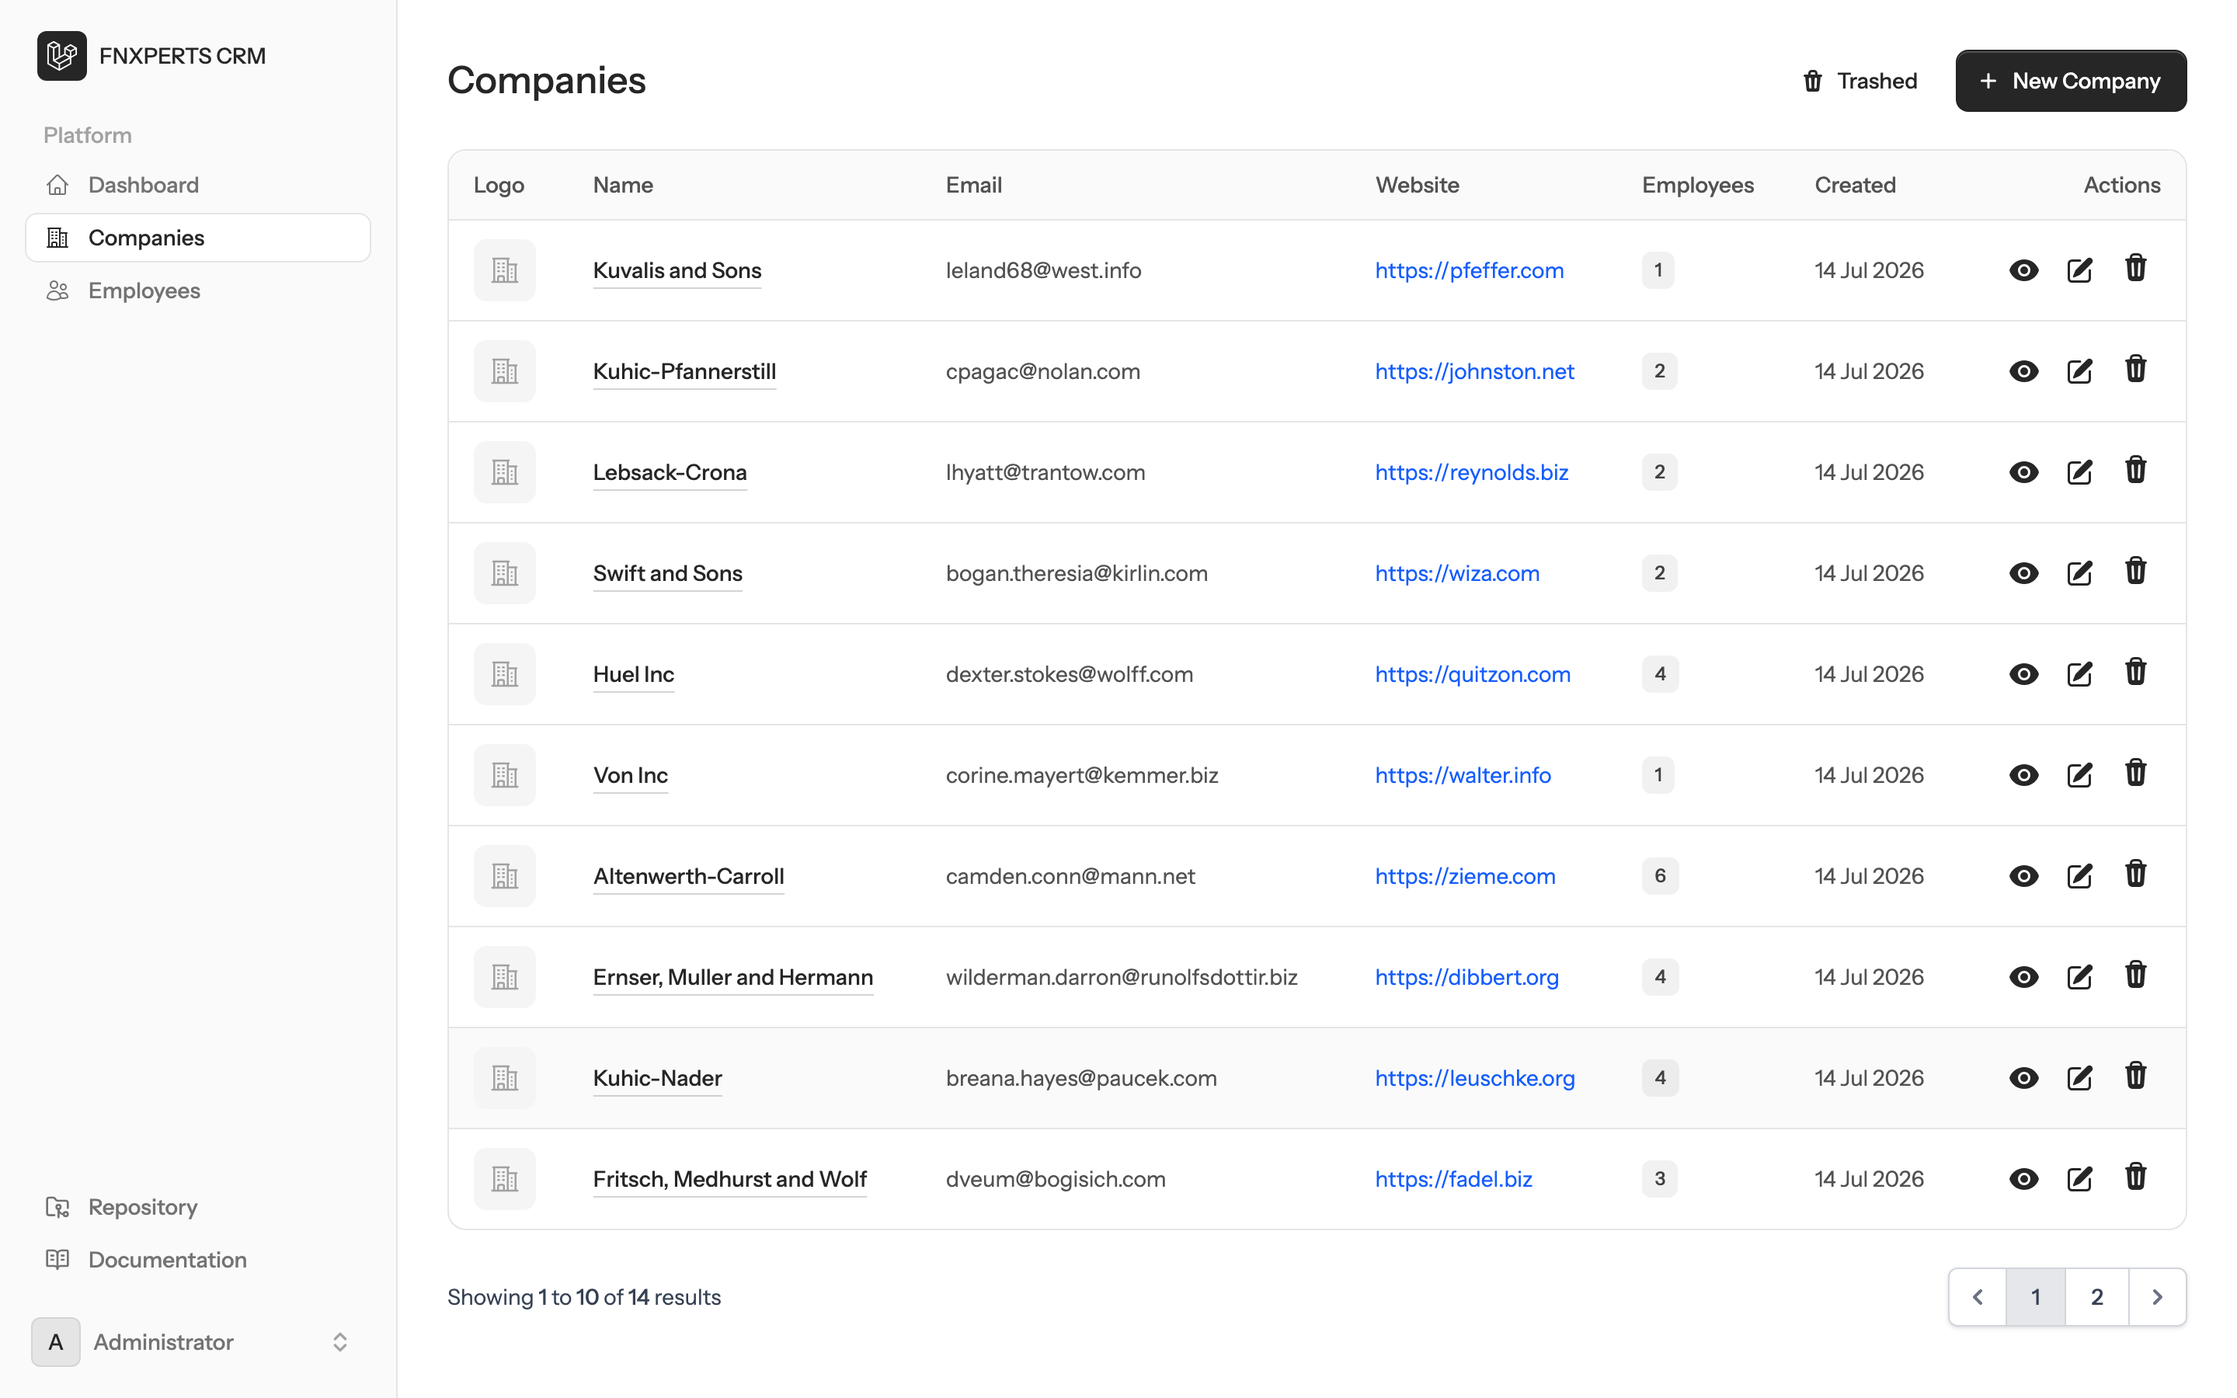
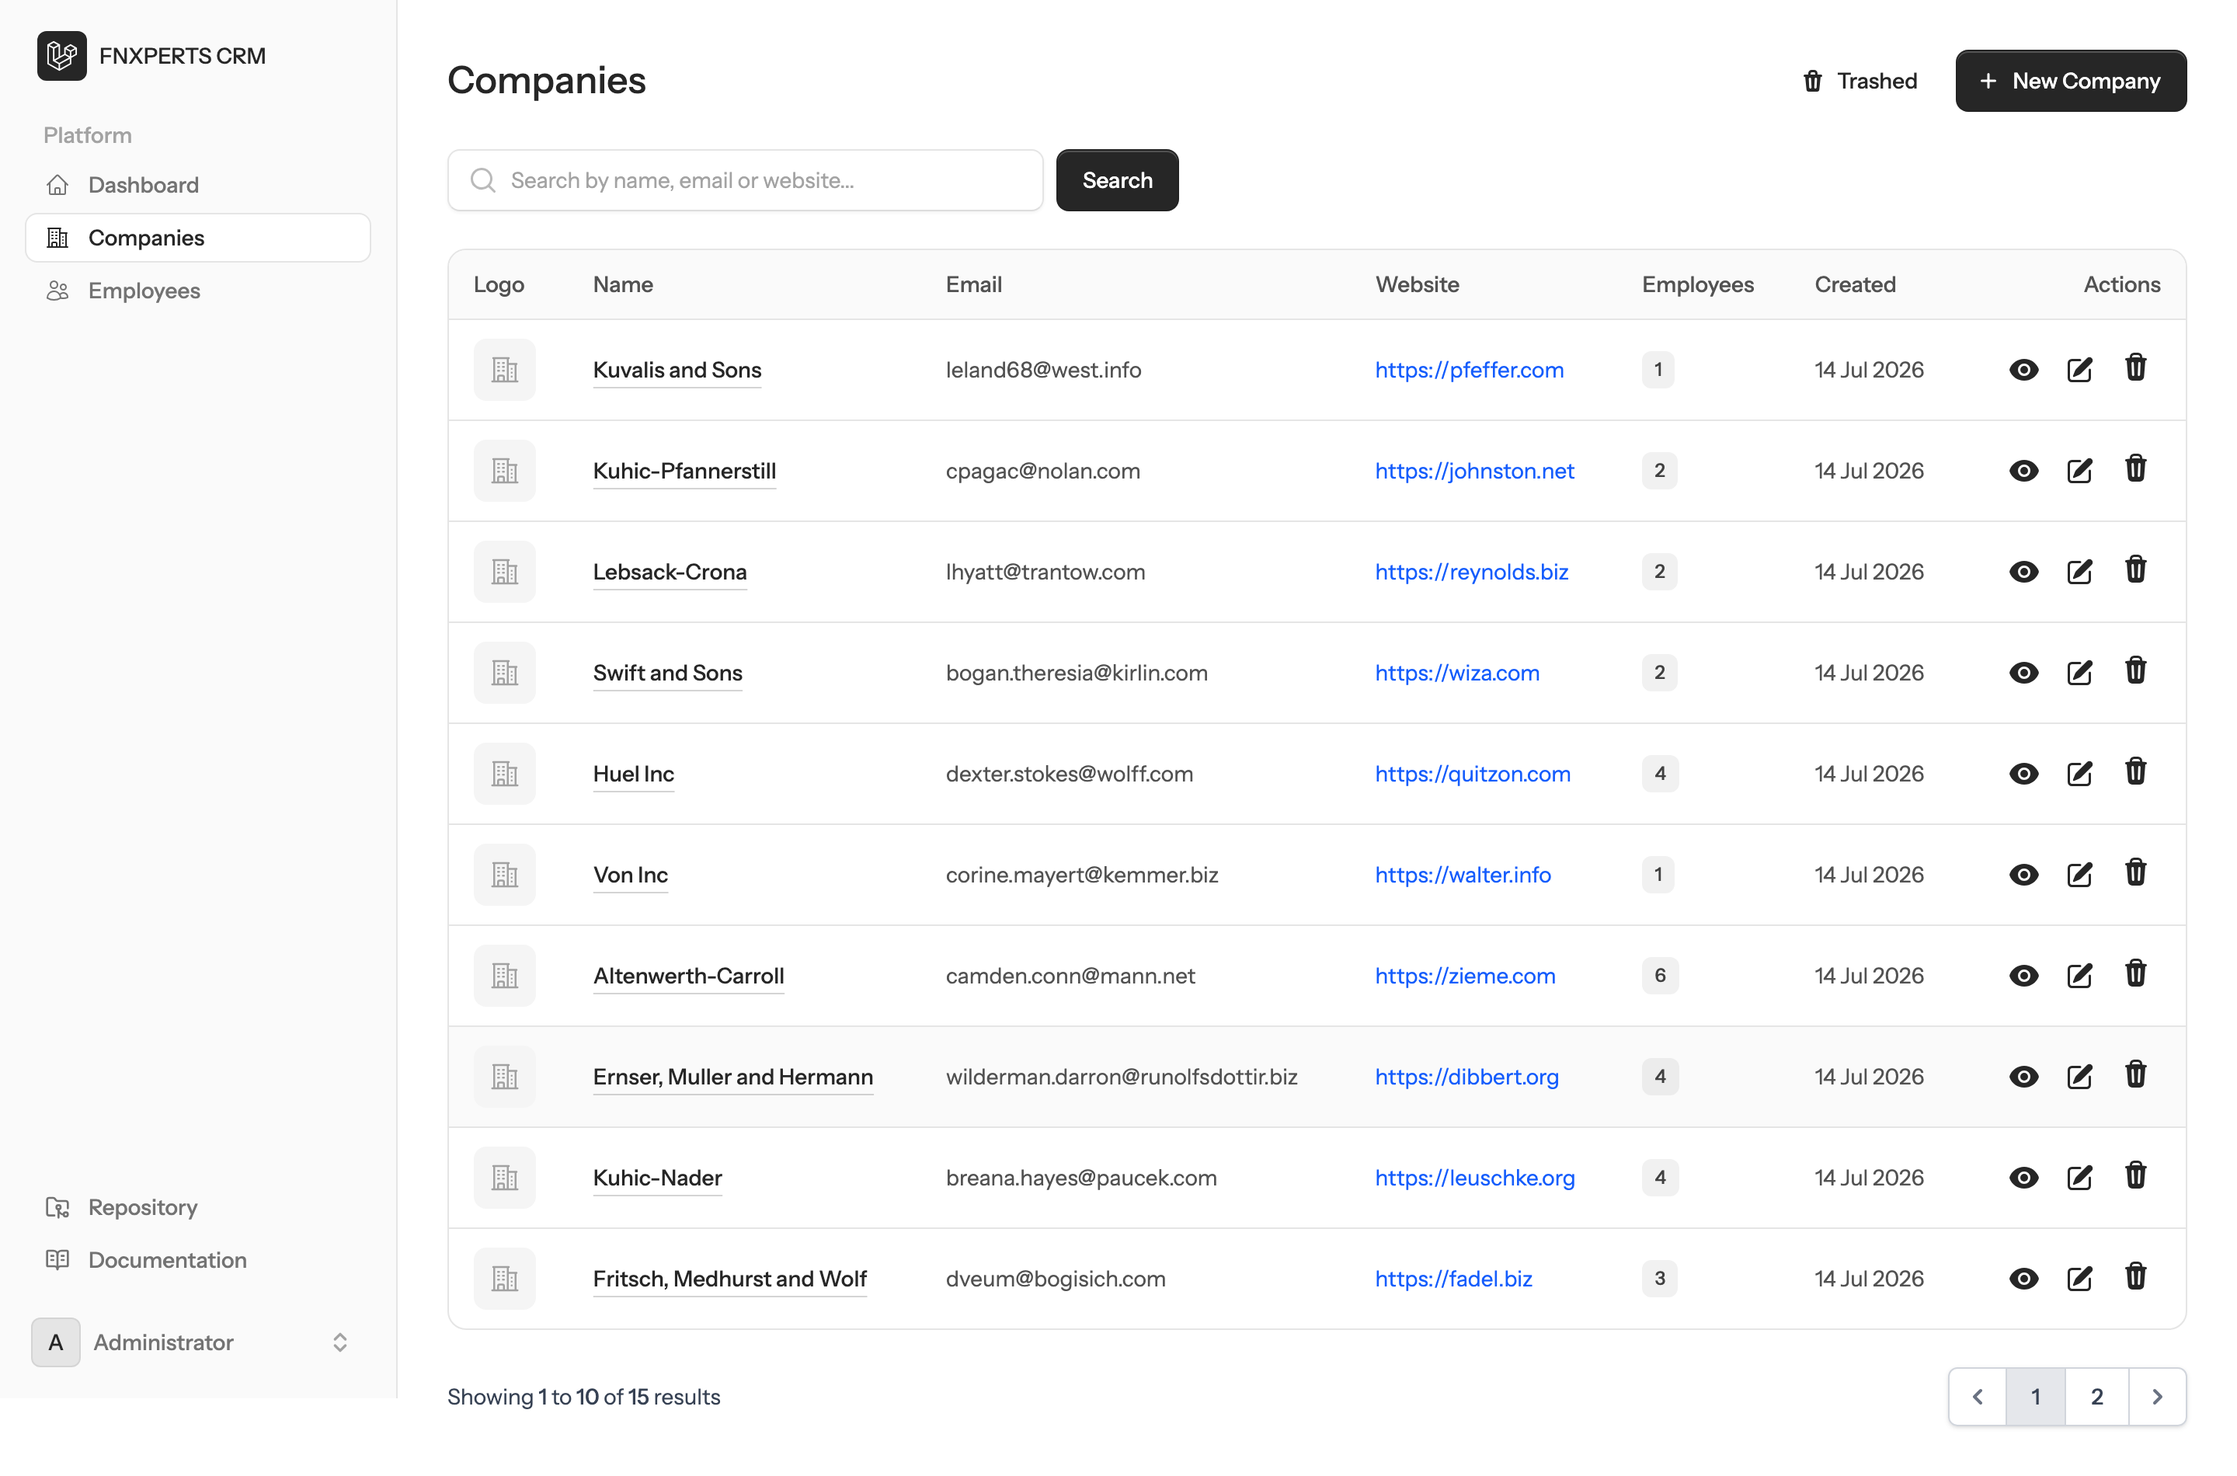
feat: add search filter to company and employee listings
Reusable case-insensitive search scope on both models (portable lower()+LIKE
across Postgres and SQLite). Companies match name/email/website; employees
match name, full name, email, phone, and related company name. Index
controllers apply the scope and preserve the term across pagination via
withQueryString(). Adds a search box + no-results state, tests, and README.

diff --git a/resources/views/companies/index.blade.php b/resources/views/companies/index.blade.php
@@ -14,15 +14,41 @@
 
         <x-flash />
 
+        @if ($companies->isNotEmpty() || $search)
+            <form method="GET" action="{{ route('companies.index') }}" class="flex items-center gap-2">
+                <flux:input
+                    type="search"
+                    name="search"
+                    icon="magnifying-glass"
+                    :value="$search"
+                    :placeholder="__('Search by name, email or website...')"
+                    class="max-w-sm"
+                />
+                <flux:button type="submit" variant="primary">{{ __('Search') }}</flux:button>
+                @if ($search)
+                    <flux:button :href="route('companies.index')" variant="ghost">{{ __('Clear') }}</flux:button>
+                @endif
+            </form>
+        @endif
+
         @if ($companies->isEmpty())
-            <div class="flex flex-col items-center justify-center gap-3 rounded-xl border border-dashed border-neutral-300 py-16 dark:border-neutral-700">
-                <flux:icon.building-office-2 class="size-10 text-neutral-400" />
-                <flux:heading size="lg">{{ __('No companies yet') }}</flux:heading>
-                <flux:text>{{ __('Get started by creating your first company.') }}</flux:text>
-                <flux:button :href="route('companies.create')" variant="primary" class="mt-2">
-                    {{ __('New Company') }}
-                </flux:button>
-            </div>
+            @if ($search)
+                <div class="flex flex-col items-center justify-center gap-3 rounded-xl border border-dashed border-neutral-300 py-16 dark:border-neutral-700">
+                    <flux:icon.magnifying-glass class="size-10 text-neutral-400" />
+                    <flux:heading size="lg">{{ __('No results') }}</flux:heading>
+                    <flux:text>{{ __('No companies match') }} “{{ $search }}”.</flux:text>
+                    <flux:button :href="route('companies.index')" variant="ghost" class="mt-2">{{ __('Clear search') }}</flux:button>
+                </div>
+            @else
+                <div class="flex flex-col items-center justify-center gap-3 rounded-xl border border-dashed border-neutral-300 py-16 dark:border-neutral-700">
+                    <flux:icon.building-office-2 class="size-10 text-neutral-400" />
+                    <flux:heading size="lg">{{ __('No companies yet') }}</flux:heading>
+                    <flux:text>{{ __('Get started by creating your first company.') }}</flux:text>
+                    <flux:button :href="route('companies.create')" variant="primary" class="mt-2">
+                        {{ __('New Company') }}
+                    </flux:button>
+                </div>
+            @endif
         @else
             <div class="overflow-x-auto rounded-xl border border-neutral-200 dark:border-neutral-700">
                 <table class="w-full text-left text-sm">

diff --git a/resources/views/employees/index.blade.php b/resources/views/employees/index.blade.php
@@ -14,15 +14,41 @@
 
         <x-flash />
 
+        @if ($employees->isNotEmpty() || $search)
+            <form method="GET" action="{{ route('employees.index') }}" class="flex items-center gap-2">
+                <flux:input
+                    type="search"
+                    name="search"
+                    icon="magnifying-glass"
+                    :value="$search"
+                    :placeholder="__('Search by name, email, phone or company...')"
+                    class="max-w-sm"
+                />
+                <flux:button type="submit" variant="primary">{{ __('Search') }}</flux:button>
+                @if ($search)
+                    <flux:button :href="route('employees.index')" variant="ghost">{{ __('Clear') }}</flux:button>
+                @endif
+            </form>
+        @endif
+
         @if ($employees->isEmpty())
-            <div class="flex flex-col items-center justify-center gap-3 rounded-xl border border-dashed border-neutral-300 py-16 dark:border-neutral-700">
-                <flux:icon.users class="size-10 text-neutral-400" />
-                <flux:heading size="lg">{{ __('No employees yet') }}</flux:heading>
-                <flux:text>{{ __('Get started by adding your first employee.') }}</flux:text>
-                <flux:button :href="route('employees.create')" variant="primary" class="mt-2">
-                    {{ __('New Employee') }}
-                </flux:button>
-            </div>
+            @if ($search)
+                <div class="flex flex-col items-center justify-center gap-3 rounded-xl border border-dashed border-neutral-300 py-16 dark:border-neutral-700">
+                    <flux:icon.magnifying-glass class="size-10 text-neutral-400" />
+                    <flux:heading size="lg">{{ __('No results') }}</flux:heading>
+                    <flux:text>{{ __('No employees match') }} “{{ $search }}”.</flux:text>
+                    <flux:button :href="route('employees.index')" variant="ghost" class="mt-2">{{ __('Clear search') }}</flux:button>
+                </div>
+            @else
+                <div class="flex flex-col items-center justify-center gap-3 rounded-xl border border-dashed border-neutral-300 py-16 dark:border-neutral-700">
+                    <flux:icon.users class="size-10 text-neutral-400" />
+                    <flux:heading size="lg">{{ __('No employees yet') }}</flux:heading>
+                    <flux:text>{{ __('Get started by adding your first employee.') }}</flux:text>
+                    <flux:button :href="route('employees.create')" variant="primary" class="mt-2">
+                        {{ __('New Employee') }}
+                    </flux:button>
+                </div>
+            @endif
         @else
             <div class="overflow-x-auto rounded-xl border border-neutral-200 dark:border-neutral-700">
                 <table class="w-full text-left text-sm">

diff --git a/tests/Feature/CompanyTest.php b/tests/Feature/CompanyTest.php
@@ -185,6 +185,34 @@ test('the company listing shows 10 records per page', function () {
     expect($response->viewData('companies')->count())->toBe(10);
 });
 
+test('the company listing can be filtered by a search term', function () {
+    $match = Company::factory()->create(['name' => 'Acme Robotics']);
+    $other = Company::factory()->create(['name' => 'Globex Industries']);
+
+    $response = $this->get(route('companies.index', ['search' => 'robot']))->assertOk();
+
+    $ids = $response->viewData('companies')->pluck('id');
+    expect($ids)->toContain($match->id)->not->toContain($other->id);
+});
+
+test('search matches company email', function () {
+    $match = Company::factory()->create(['email' => 'hello@needle.test']);
+    Company::factory()->create(['email' => 'nope@haystack.test']);
+
+    $response = $this->get(route('companies.index', ['search' => 'NEEDLE']))->assertOk();
+
+    expect($response->viewData('companies')->pluck('id'))->toContain($match->id)->toHaveCount(1);
+});
+
+test('the search term is preserved across pagination links', function () {
+    Company::factory()->count(15)->create(['name' => 'Searchable Co']);
+
+    $response = $this->get(route('companies.index', ['search' => 'Searchable']))->assertOk();
+
+    expect($response->viewData('companies')->count())->toBe(10);
+    $response->assertSee('search=Searchable', false);
+});
+
 test('the company listing includes employee counts', function () {
     $company = Company::factory()->create();
     Employee::factory()->count(4)->for($company)->create();

diff --git a/tests/Feature/EmployeeTest.php b/tests/Feature/EmployeeTest.php
@@ -120,6 +120,28 @@ test('the employee listing shows 10 records per page', function () {
     expect($response->viewData('employees')->count())->toBe(10);
 });
 
+test('the employee listing can be filtered by name', function () {
+    $match = Employee::factory()->create(['first_name' => 'Alexander', 'last_name' => 'Ng']);
+    $other = Employee::factory()->create(['first_name' => 'Beatrice', 'last_name' => 'Lim']);
+
+    $response = $this->get(route('employees.index', ['search' => 'alex']))->assertOk();
+
+    $ids = $response->viewData('employees')->pluck('id');
+    expect($ids)->toContain($match->id)->not->toContain($other->id);
+});
+
+test('the employee listing can be filtered by company name', function () {
+    $acme = Company::factory()->create(['name' => 'Acme Robotics']);
+    $globex = Company::factory()->create(['name' => 'Globex Industries']);
+    $match = Employee::factory()->for($acme)->create();
+    $other = Employee::factory()->for($globex)->create();
+
+    $response = $this->get(route('employees.index', ['search' => 'robotics']))->assertOk();
+
+    $ids = $response->viewData('employees')->pluck('id');
+    expect($ids)->toContain($match->id)->not->toContain($other->id);
+});
+
 test('the employee listing displays the related company', function () {
     $company = Company::factory()->create(['name' => 'Globex Corporation']);
     Employee::factory()->for($company)->create();

diff --git a/app/Models/Employee.php b/app/Models/Employee.php
@@ -3,6 +3,7 @@
 namespace App\Models;
 
 use Database\Factories\EmployeeFactory;
+use Illuminate\Database\Eloquent\Builder;
 use Illuminate\Database\Eloquent\Casts\Attribute;
 use Illuminate\Database\Eloquent\Factories\HasFactory;
 use Illuminate\Database\Eloquent\Model;
@@ -31,6 +32,32 @@ class Employee extends Model
     public function company(): BelongsTo
     {
         return $this->belongsTo(Company::class);
+    }
+
+    /**
+     * Filter employees by a case-insensitive term across name, email, phone and
+     * the related company name.
+     *
+     * @param  Builder<Employee>  $query
+     */
+    public function scopeSearch(Builder $query, ?string $term): void
+    {
+        $term = trim((string) $term);
+
+        if ($term === '') {
+            return;
+        }
+
+        $like = '%'.mb_strtolower($term).'%';
+
+        $query->where(function (Builder $query) use ($like): void {
+            $query->whereRaw('lower(first_name) like ?', [$like])
+                ->orWhereRaw('lower(last_name) like ?', [$like])
+                ->orWhereRaw("lower(first_name || ' ' || last_name) like ?", [$like])
+                ->orWhereRaw('lower(email) like ?', [$like])
+                ->orWhereRaw('lower(phone) like ?', [$like])
+                ->orWhereHas('company', fn (Builder $company) => $company->whereRaw('lower(name) like ?', [$like]));
+        });
     }
 
     /**

diff --git a/app/Models/Company.php b/app/Models/Company.php
@@ -3,6 +3,7 @@
 namespace App\Models;
 
 use Database\Factories\CompanyFactory;
+use Illuminate\Database\Eloquent\Builder;
 use Illuminate\Database\Eloquent\Factories\HasFactory;
 use Illuminate\Database\Eloquent\Model;
 use Illuminate\Database\Eloquent\Relations\HasMany;
@@ -43,6 +44,28 @@ class Company extends Model
     public function employees(): HasMany
     {
         return $this->hasMany(Employee::class);
+    }
+
+    /**
+     * Filter companies by a case-insensitive term across name, email and website.
+     *
+     * @param  Builder<Company>  $query
+     */
+    public function scopeSearch(Builder $query, ?string $term): void
+    {
+        $term = trim((string) $term);
+
+        if ($term === '') {
+            return;
+        }
+
+        $like = '%'.mb_strtolower($term).'%';
+
+        $query->where(function (Builder $query) use ($like): void {
+            $query->whereRaw('lower(name) like ?', [$like])
+                ->orWhereRaw('lower(email) like ?', [$like])
+                ->orWhereRaw('lower(website) like ?', [$like]);
+        });
     }
 
     /**

diff --git a/app/Http/Controllers/CompanyController.php b/app/Http/Controllers/CompanyController.php
@@ -12,17 +12,22 @@ use App\Http\Requests\UpdateCompanyRequest;
 use App\Models\Company;
 use Illuminate\Contracts\View\View;
 use Illuminate\Http\RedirectResponse;
+use Illuminate\Http\Request;
 
 class CompanyController extends Controller
 {
-    public function index(): View
+    public function index(Request $request): View
     {
+        $search = $request->string('search')->trim()->toString() ?: null;
+
         $companies = Company::query()
+            ->search($search)
             ->withCount('employees')
             ->latest()
-            ->paginate(10);
+            ->paginate(10)
+            ->withQueryString();
 
-        return view('companies.index', compact('companies'));
+        return view('companies.index', compact('companies', 'search'));
     }
 
     public function create(): View

diff --git a/app/Http/Controllers/EmployeeController.php b/app/Http/Controllers/EmployeeController.php
@@ -11,17 +11,22 @@ use App\Models\Company;
 use App\Models\Employee;
 use Illuminate\Contracts\View\View;
 use Illuminate\Http\RedirectResponse;
+use Illuminate\Http\Request;
 
 class EmployeeController extends Controller
 {
-    public function index(): View
+    public function index(Request $request): View
     {
+        $search = $request->string('search')->trim()->toString() ?: null;
+
         $employees = Employee::query()
+            ->search($search)
             ->with('company')
             ->latest()
-            ->paginate(10);
+            ->paginate(10)
+            ->withQueryString();
 
-        return view('employees.index', compact('employees'));
+        return view('employees.index', compact('employees', 'search'));
     }
 
     public function create(): View

diff --git a/README.md b/README.md
@@ -20,6 +20,8 @@ relationships, Form Request validation, Action classes, and a public read-only J
 - Validation via dedicated **Form Request** classes
 - State-changing logic isolated in **Action classes** (logo storage / replacement / cleanup in transactions)
 - **Laravel API Resources** with an `employee_count` attribute
+- **Search filter** on both listings (case-insensitive; companies by name/email/website,
+  employees by name/full name/email/phone/company name) with the term preserved across pagination
 - Pagination at **10 records per page** for both listings
 - Feature test suite (**Pest**) covering auth, CRUD, validation, logo lifecycle, cascade delete, pagination, and the API
 - Database factories and seeders (seeded admin + 15 companies + 40 employees)
@@ -243,6 +245,7 @@ Located in [`docs/screenshots/`](docs/screenshots):
 | Login | `login.png` |
 | Dashboard | `dashboard.png` |
 | Companies list | `companies-index.png` |
+| Companies search | `companies-search.png` |
 | Companies pagination | `pagination.png` |
 | Trashed companies | `companies-trashed.png` |
 | Trashed employees | `employees-trashed.png` |
